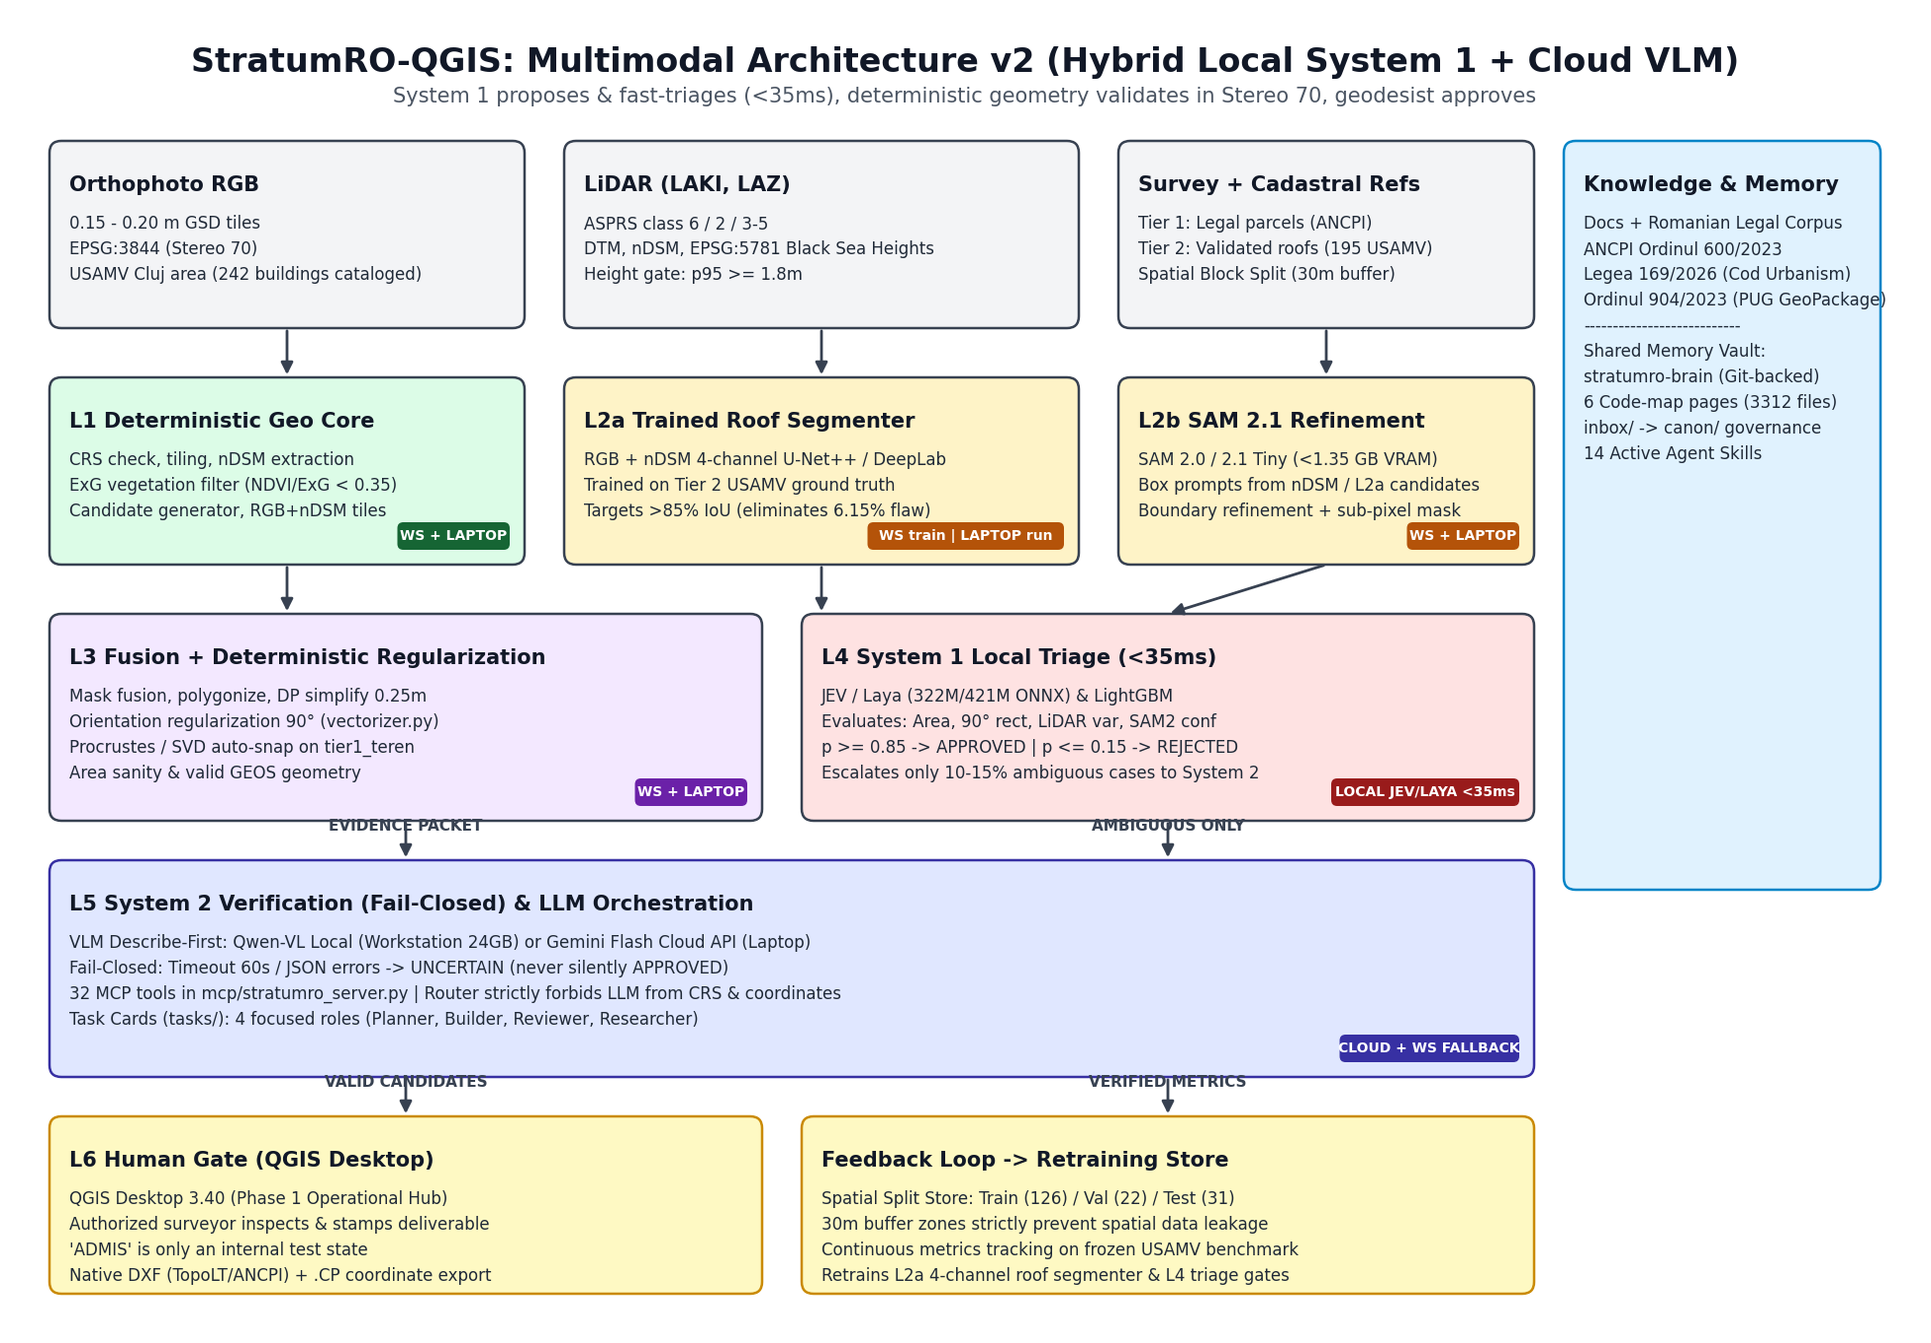
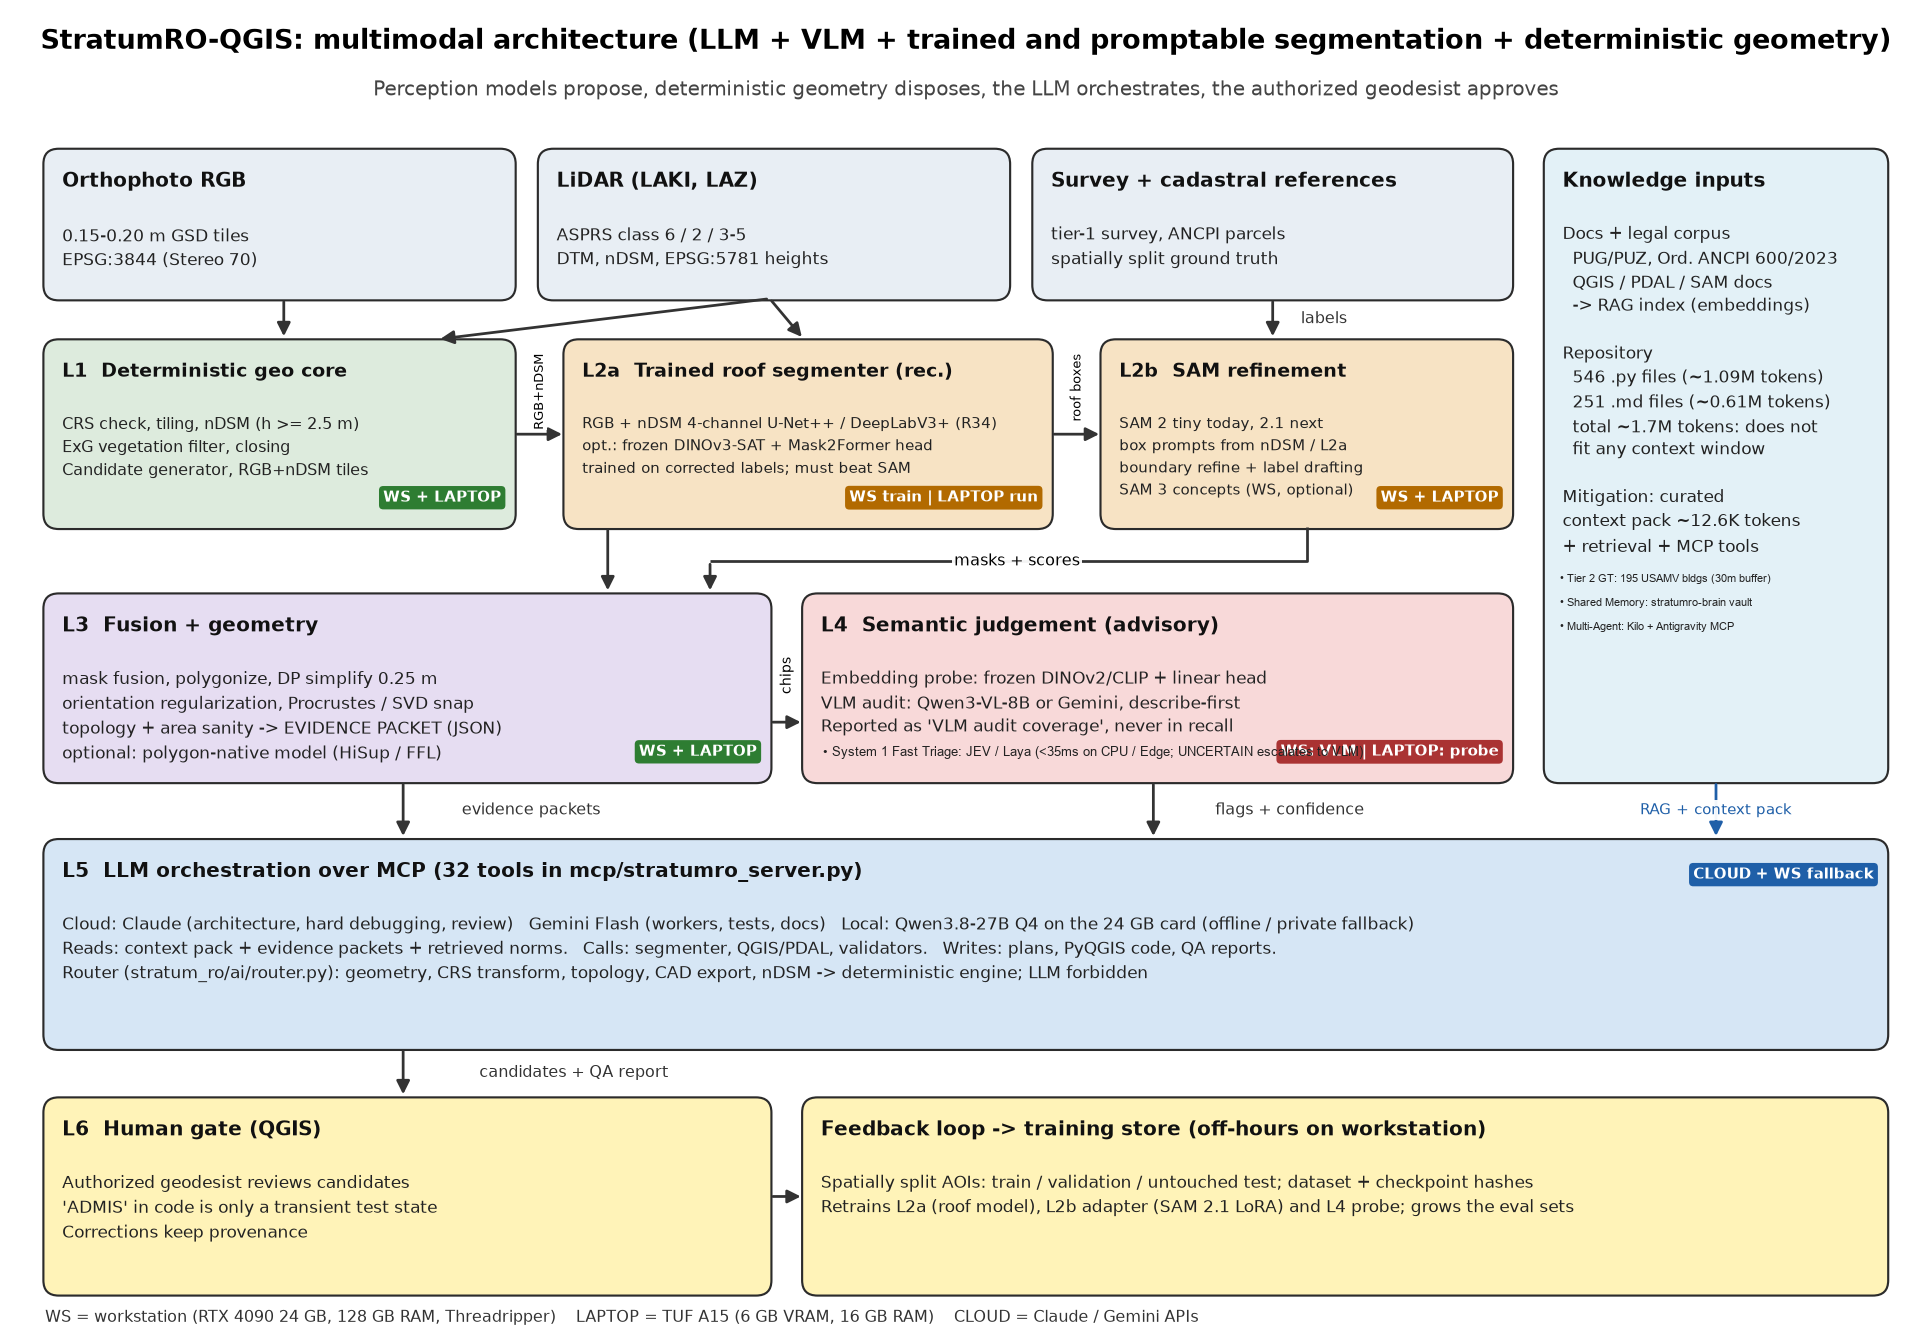
feat(diagram): 1:1 faithful non-destructive overlay for fig1_architecture_v2_hybrid

diff --git a/scripts/overlay_fig1_additions.py b/scripts/overlay_fig1_additions.py
@@ -1,0 +1,62 @@
+"""
+overlay_fig1_additions.py - 1:1 Non-Destructive Architecture Diagram Overlay
+Preserves 100% of the original Perplexity architecture diagram (all arrows, signs,
+directions, texts, boxes, badges, colors, and canvas geometry) and ONLY adds:
+1. System 1 Fast Triage (JEV / Laya <35ms) inside L4 box.
+2. USAMV 195 GT, stratumro-brain Shared Memory, and Multi-Agent MCP inside Cadastral Knowledge Inputs.
+"""
+
+from pathlib import Path
+import shutil
+from PIL import Image, ImageDraw, ImageFont
+
+
+def main():
+    repo_root = Path(__file__).resolve().parent.parent
+    src_img_path = repo_root / "perplexity AI" / "png" / "fig1_architecture.png"
+    out_img_path = repo_root / "perplexity AI" / "png" / "fig1_architecture_v2_hybrid.png"
+    artifact_dir = Path(r"C:\Users\lefpa\.gemini\antigravity\brain\3664d195-fd57-4ad2-a160-377d4b659f41")
+
+    if not src_img_path.exists():
+        raise FileNotFoundError(f"Source image not found: {src_img_path}")
+
+    # Load original image pixel-for-pixel
+    img = Image.open(src_img_path).convert("RGBA")
+    draw = ImageDraw.Draw(img)
+
+    # Fonts
+    font_path = "C:/Windows/Fonts/arial.ttf"
+    font_l4 = ImageFont.truetype(font_path, 13)
+    font_ki = ImageFont.truetype(font_path, 11)
+
+    # Charcoal text color matching original bullets
+    text_color = (35, 35, 35, 255)
+
+    # 1. Non-destructive addition in L4 box
+    # Fits exactly in the empty band below bullet 3 (y=719) and above bottom bar (y=782)
+    l4_text = "• System 1 Fast Triage: JEV / Laya (<35ms on CPU / Edge; UNCERTAIN escalates to VLM)"
+    draw.text((823, 744), l4_text, fill=text_color, font=font_l4)
+
+    # 2. Non-destructive additions in Cadastral Knowledge Inputs box
+    # Fits inside the empty region between y=560 and y=780, well within x=1560..1790 (KI box ends at 1806)
+    ki_bullets = [
+        (572, "• Tier 2 GT: 195 USAMV bldgs (30m buffer)"),
+        (596, "• Shared Memory: stratumro-brain vault"),
+        (620, "• Multi-Agent: Kilo + Antigravity MCP"),
+    ]
+    for y_pos, bullet in ki_bullets:
+        draw.text((1560, y_pos), bullet, fill=text_color, font=font_ki)
+
+    # Save output image
+    img.save(out_img_path, format="PNG")
+    print(f"Saved faithful 1:1 overlay to: {out_img_path}")
+
+    # Copy to artifact directory for instant viewing
+    if artifact_dir.exists():
+        dest = artifact_dir / "fig1_architecture_v2_hybrid.png"
+        shutil.copy2(out_img_path, dest)
+        print(f"Copied to artifact directory: {dest}")
+
+
+if __name__ == "__main__":
+    main()
